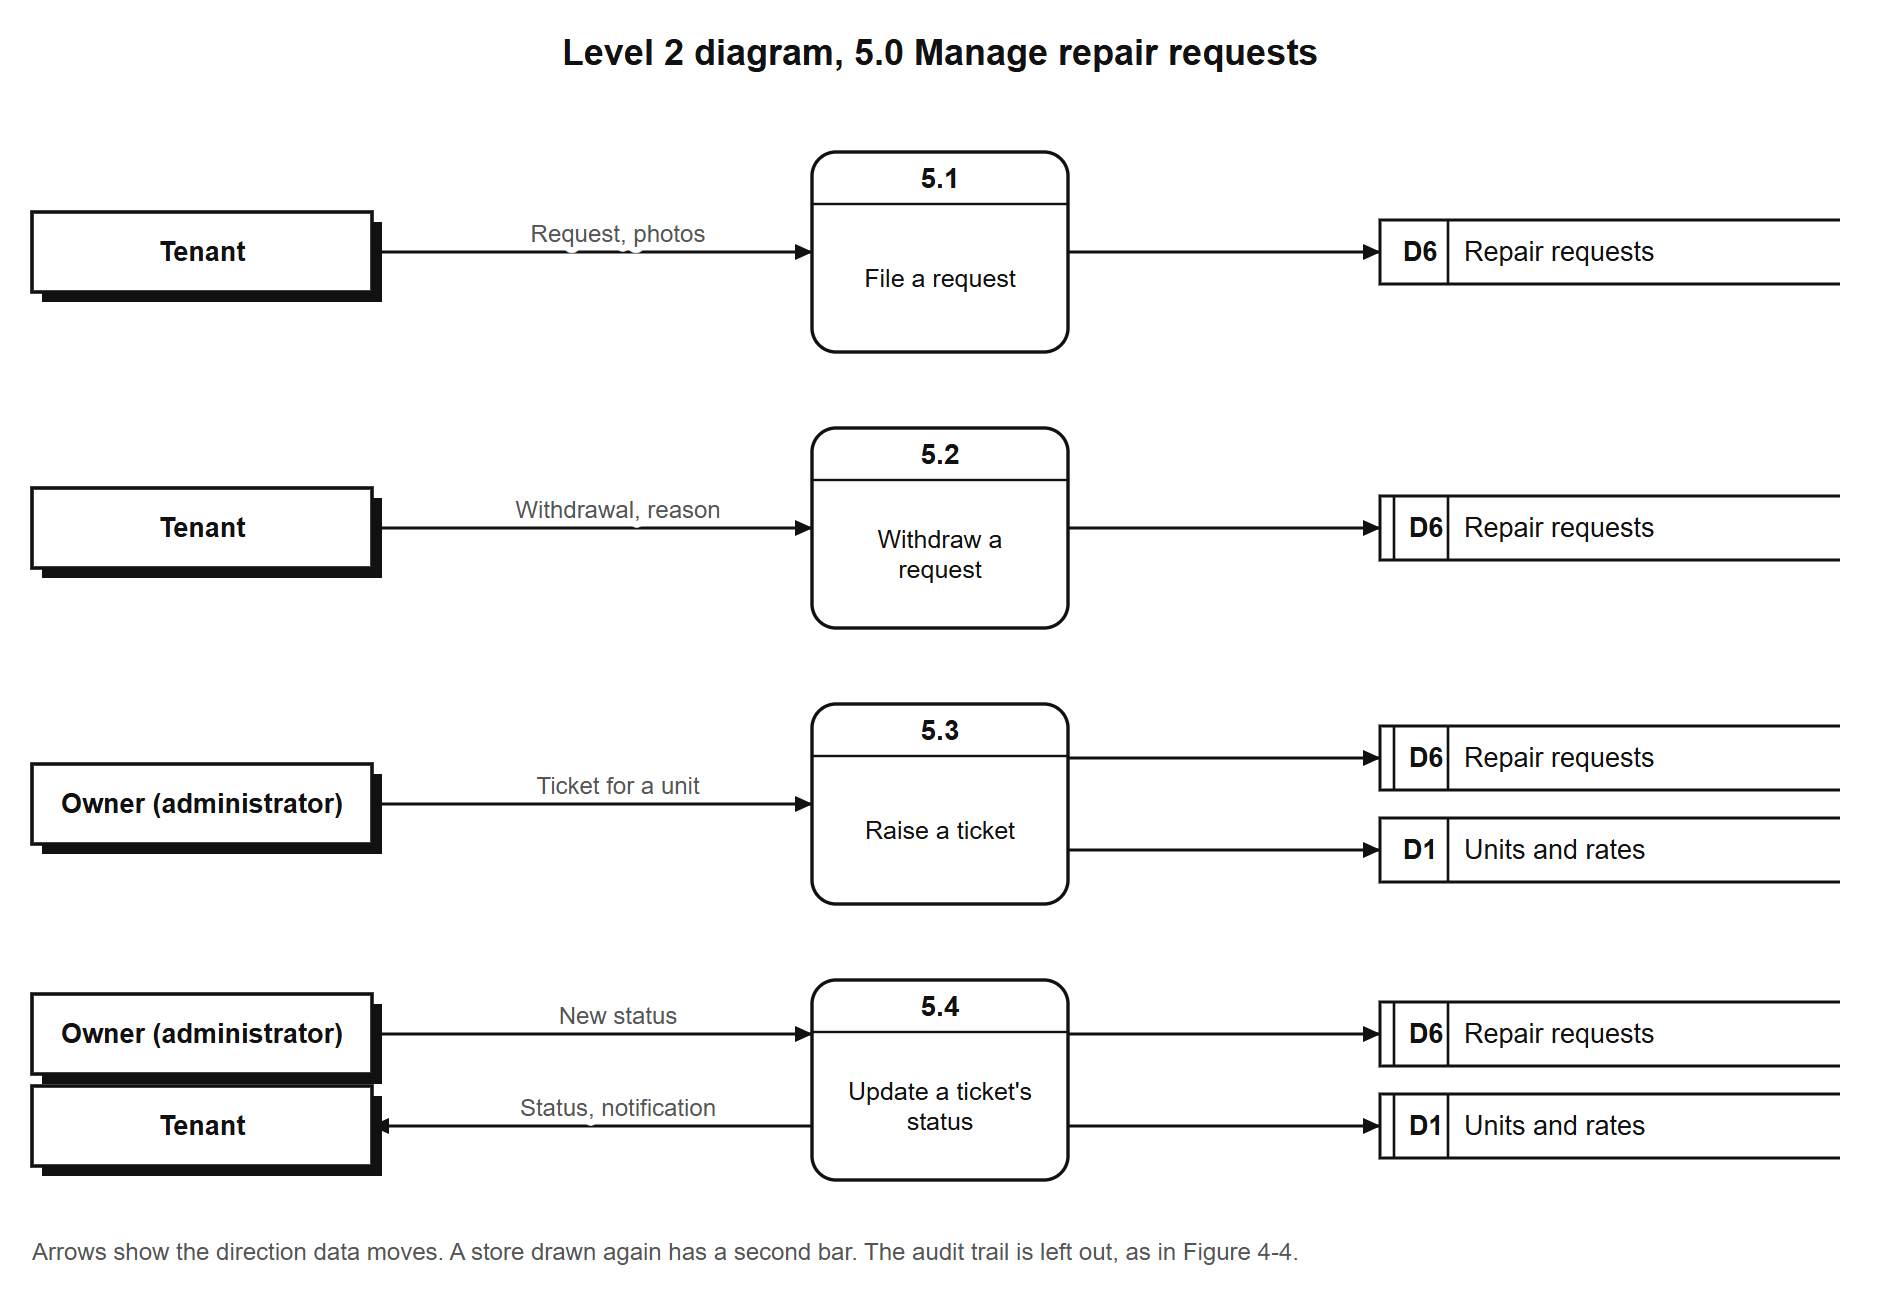
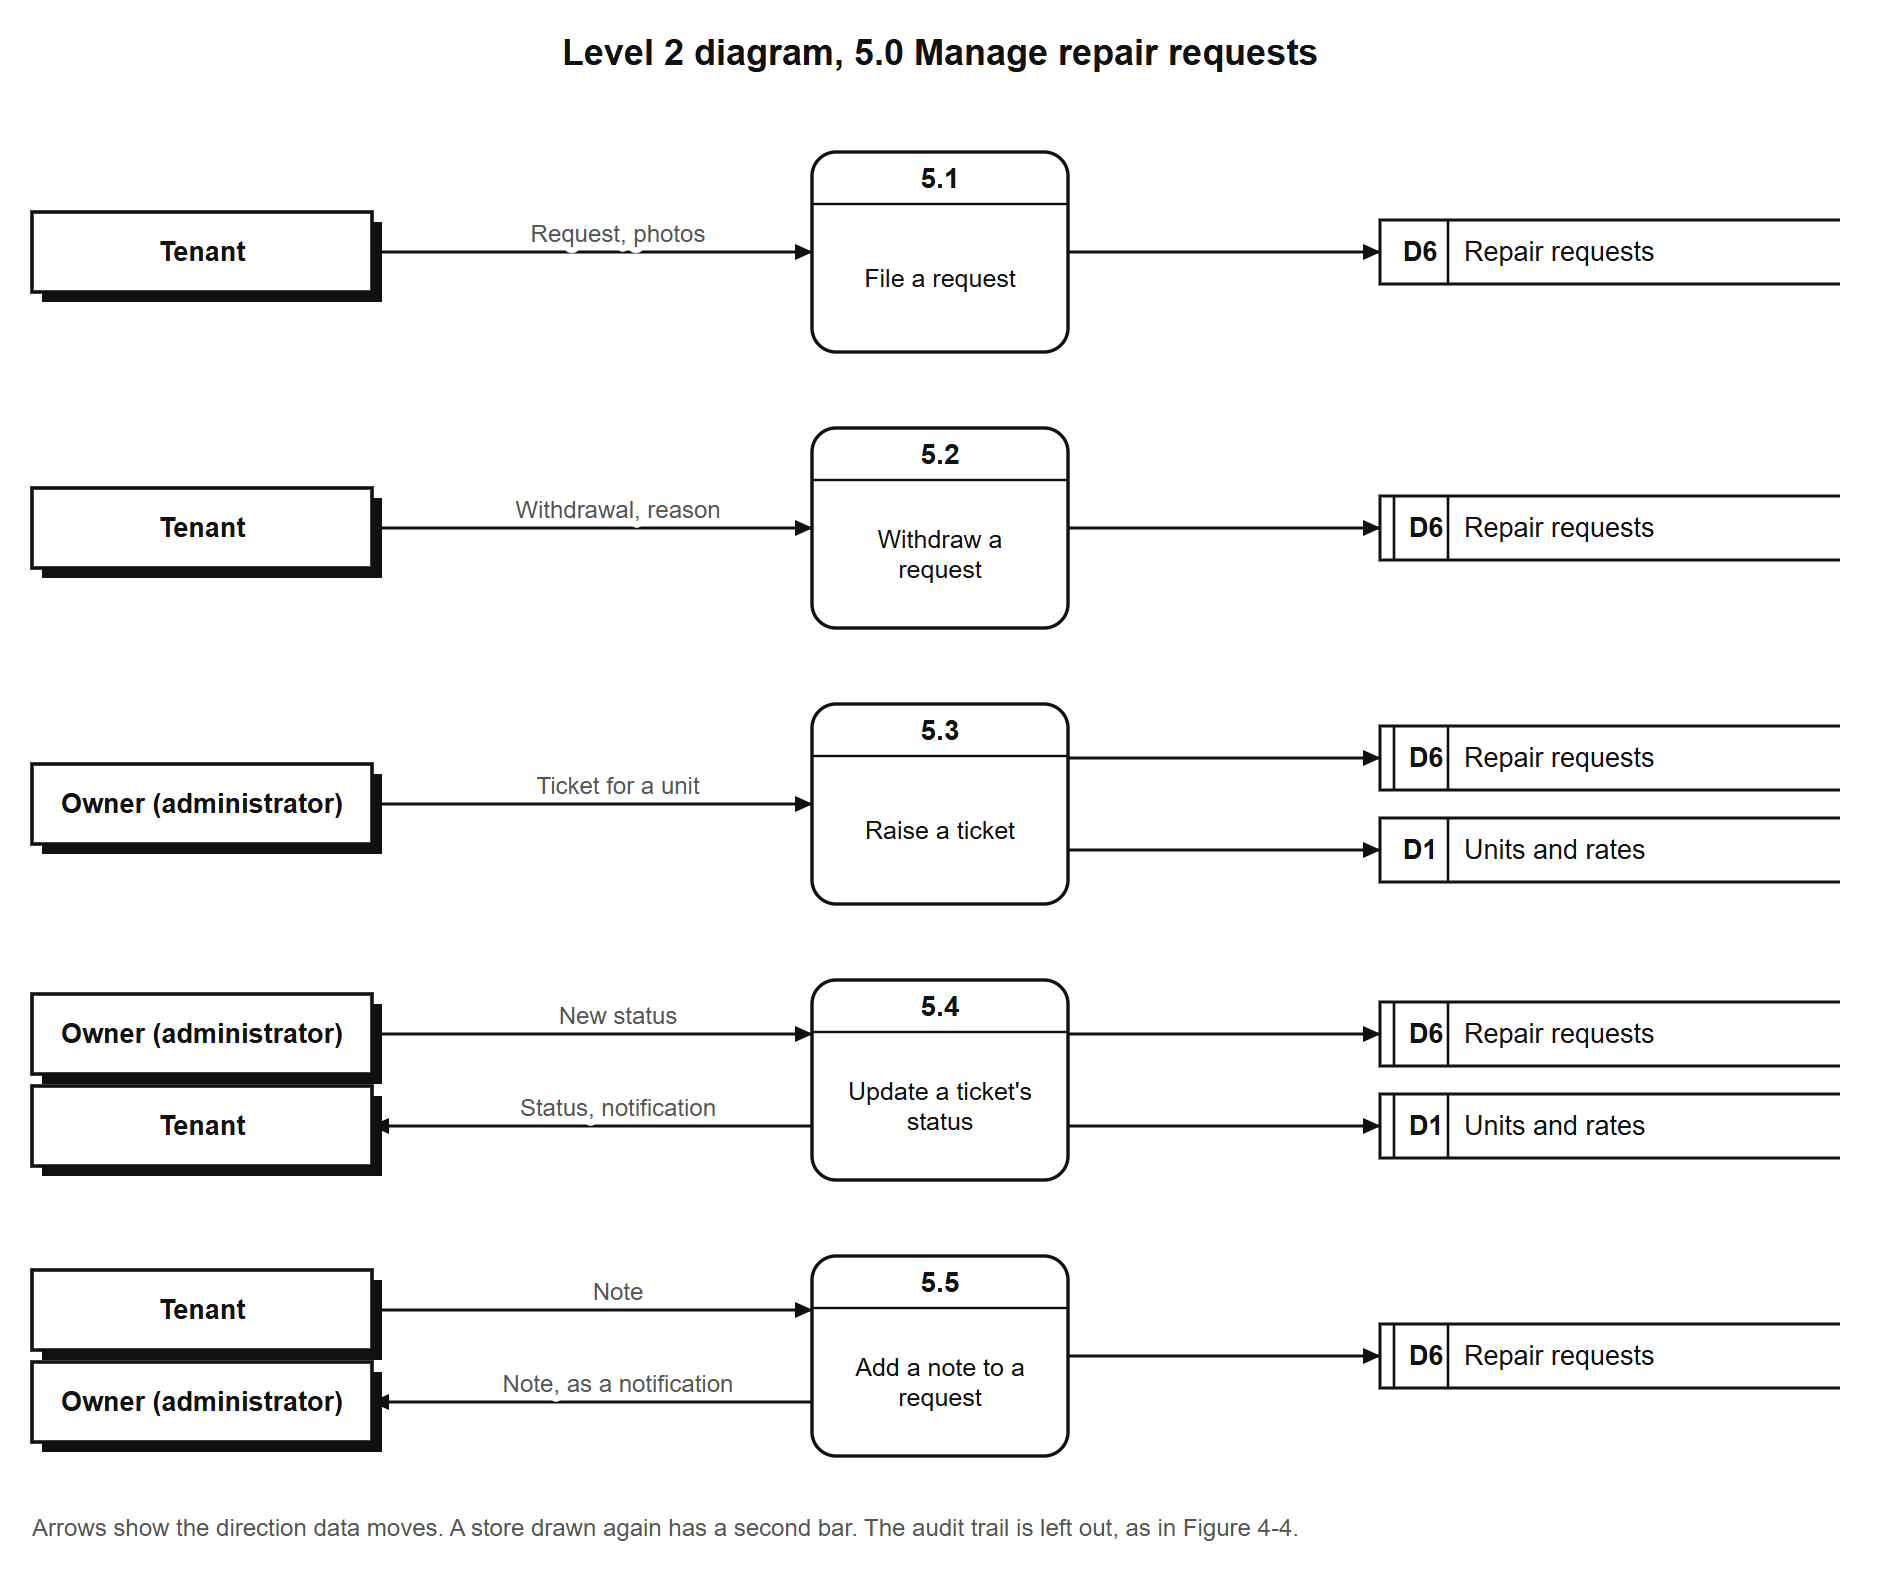
Repairs in the manual and diagram 5.0 follow main's c3a3a783
The owner's Manage window no longer reads or replies to a repair's messages. Appendix K says Manage
sends a technician or changes the status, Mark resolved is on the card of a repair in progress to
the right of the pencil, and a tenant's note reaches the owner as a notification quoting it. Level 2
diagram 5.0 gains step 5.5, the tenant's note: stored in D6 and sent to the owner as a notification.

diff --git a/FINAL/appendices/APPENDIX_K_USER_MANUAL.md b/FINAL/appendices/APPENDIX_K_USER_MANUAL.md
@@ -304,8 +304,9 @@ raises a rate by itself.
 ### 7. Repairs
 
 New requests from tenants appear here, marked by urgency. Open one with the pencil on its card
-(**Manage this repair**) to reply,
-**Send technician**, move it to **In Progress**, or **Mark resolved** (the tenant is notified). **Log
+(**Manage this repair**) to **Send technician** or change its status. A repair in progress has
+**Mark resolved** on its card, to the right of the pencil, and the tenant is notified when you press
+it. When a tenant adds a note to a request, it reaches you as a notification that quotes it. **Log
 a repair** records one you were told about in person, or one for an empty unit. **Delete repair**
 (in **Manage this repair**) removes a request for good after you confirm it. **Status** in the filters shows one stage only. A request the tenant
 cancelled (they can, until work starts) is marked **Cancelled by the tenant**, with their reason as a

diff --git a/docs/FINAL MANUSCRIPT/USER_MANUAL_APPENDIX_K.md b/docs/FINAL MANUSCRIPT/USER_MANUAL_APPENDIX_K.md
@@ -310,8 +310,9 @@ raises a rate by itself.
 ### 7. Repairs
 
 New requests from tenants appear here, marked by urgency. Open one with the pencil on its card
-(**Manage this repair**) to reply,
-**Send technician**, move it to **In Progress**, or **Mark resolved** (the tenant is notified). **Log
+(**Manage this repair**) to **Send technician** or change its status. A repair in progress has
+**Mark resolved** on its card, to the right of the pencil, and the tenant is notified when you press
+it. When a tenant adds a note to a request, it reaches you as a notification that quotes it. **Log
 a repair** records one you were told about in person, or one for an empty unit. **Delete repair**
 (in **Manage this repair**) removes a request for good after you confirm it. **Status** in the filters shows one stage only. A request the tenant
 cancelled (they can, until work starts) is marked **Cancelled by the tenant**, with their reason as a
